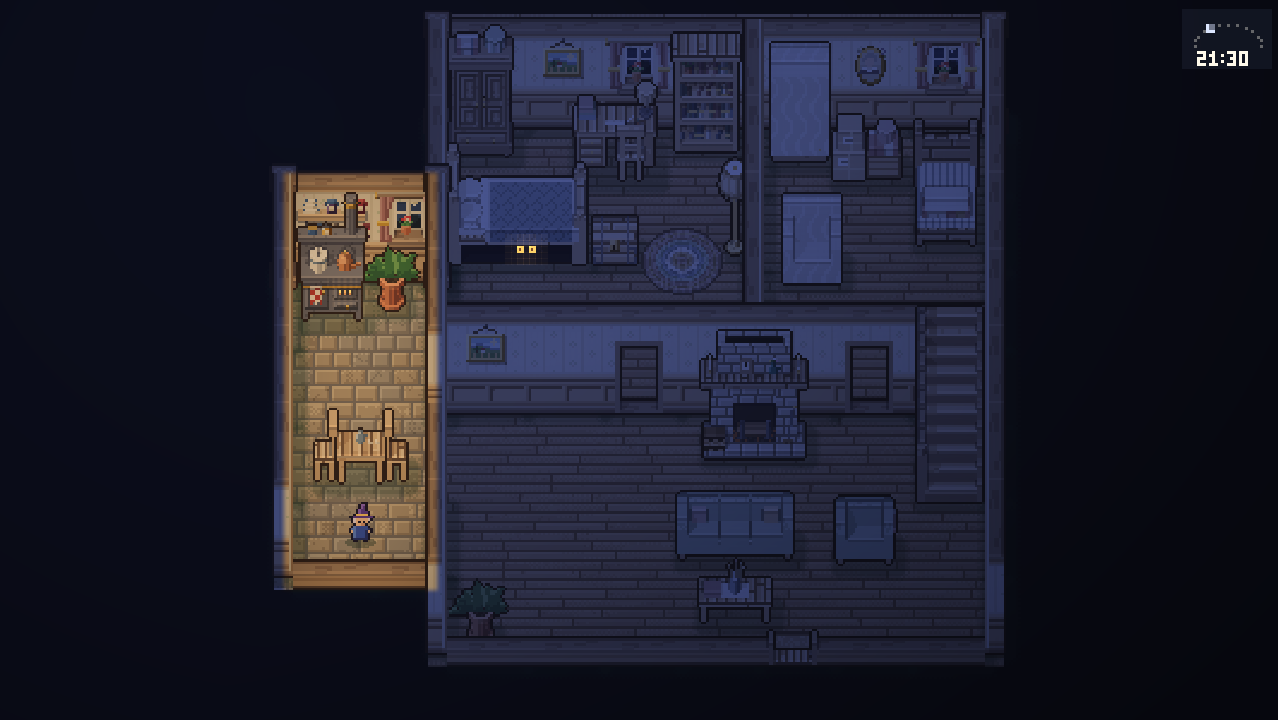
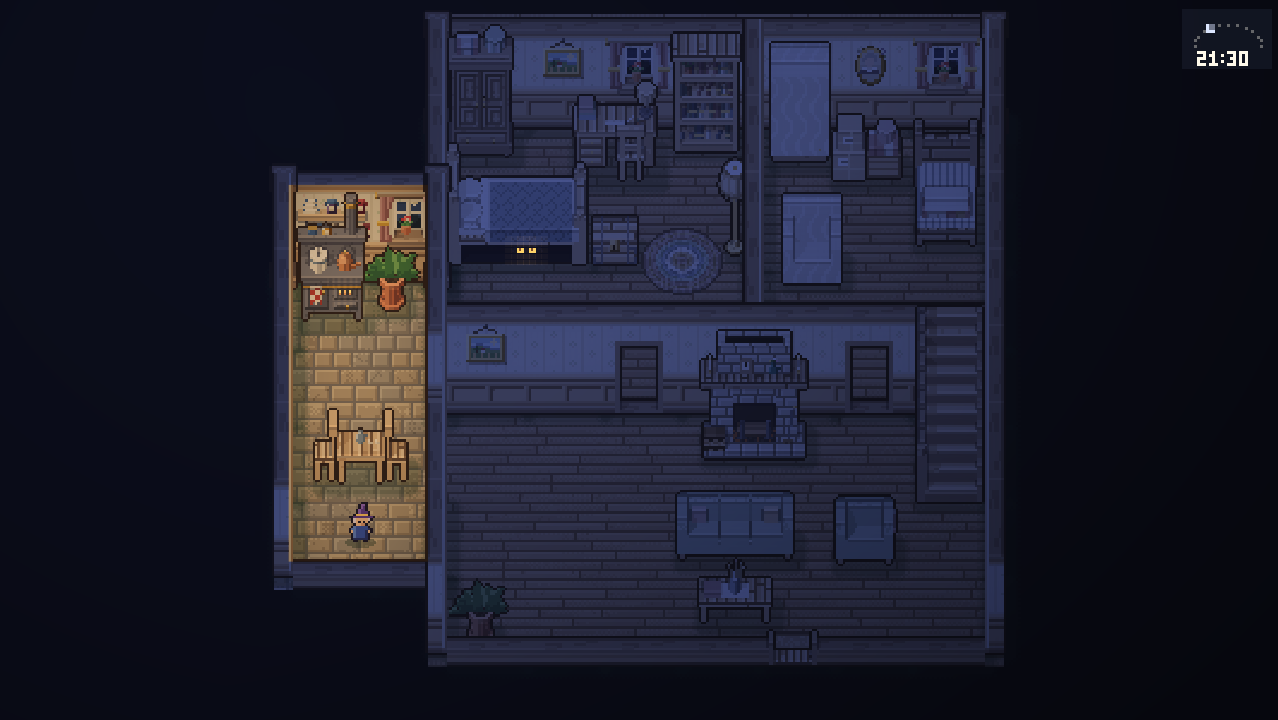
Line the room lights up with the walls
Each room's light now runs exactly between the inner faces of its walls, from
the foot of its back wall's face to the cut top of the wall in front, so wall
tops stay dark. The rects are handed to the shader just before each frame is
drawn, after the camera has moved, so the light no longer lags while walking;
the edges are crisp.

Claude-Session: https://claude.ai/code/session_01Y3QepJTJgk9rCJ93wTDK78

Changed region(s): [[0.2136, 0.2139, 0.3662, 0.825]]

diff --git a/README.md b/README.md
@@ -195,7 +195,7 @@
 - 厨房（侧屋）：很小，铺石板地，有灶台、墙上的碗碟架和一张两人用的小餐桌，侧墙上有门洞通到客厅。
 - 阁楼 `maps/home_attic.json`（`tools/editor/make_home_attic.gd`）：在主屋的屋顶下，矮墙上是屋顶木板和椽子，中间一根立柱撑着屋顶。老虎窗和外观一样在左边，窗下是主角的读书角（坐垫、毯子、一摞书、夜里亮的玻璃罐灯），四周堆着奶奶的旧箱子、纸箱、木箱和盖布的椅子。
 - 走到楼梯脚下就上到阁楼，走进阁楼的楼梯口就回到客厅（画面淡出再淡入）。地图里的建筑加上 `"to": 地图路径` 和 `"at": [x, y]` 就能这样连到别的地图。
-- 夜里各个房间单独开灯关灯：主角走进哪个房间，哪个房间就亮起暖黄的灯，书桌台灯、落地灯、灶火、阁楼的玻璃罐灯这些灯也跟着亮；别的房间关着灯，暗着，灯也灭了（床下小怪物的眼睛照样在黑暗里发光）。换房间时，新房间的灯渐渐亮起，身后的渐渐暗下去。房间的范围写在地图文件的 `rooms` 里：`area` 是房间里能站的地面，`light` 是灯光照到的画面范围（地板加墙），由 `world/map/room_lights.gd` 和 `grade.gdshader` 处理。
+- 夜里各个房间单独开灯关灯：主角走进哪个房间，哪个房间就亮起暖黄的灯，书桌台灯、落地灯、灶火、阁楼的玻璃罐灯这些灯也跟着亮；别的房间关着灯，暗着，灯也灭了（床下小怪物的眼睛照样在黑暗里发光）。换房间时，新房间的灯渐渐亮起，身后的渐渐暗下去。房间的范围写在地图文件的 `rooms` 里：`area` 是房间里能站的地面，`light` 是灯光照到的画面范围（地板加墙面，左右到两侧墙的内侧，上到后墙墙面的底，下到前面那道墙的墙头，墙头本身不亮），由 `world/map/room_lights.gd` 和 `grade.gdshader` 处理。
 - 窗户外面跟着天色变：天黑后玻璃里是夜空、星星、月亮和黑下去的山，天亮再变回白天的景色。
 - 两间卧室的门开在中间那道墙上，前墙只画矮矮一条，免得挡住房间。两间卧室之间的隔墙一直通到中间那道墙的背面（墙头藏在它后面），两个房间完全隔开。画室内时注意：中间这类横墙会挡住它上方大约 45 像素，那一条只留作走路的地板，不要放家具。
 

diff --git a/CHANGELOG.md b/CHANGELOG.md
@@ -2,6 +2,12 @@
 
 按时间倒序记录每次更新。版本号用 `0.主版本.小版本`：画面方向或架构发生变化时加主版本号，同一方向上的调整加小版本号。括号里是对应的提交。
 
+## v0.19.1 · 房间灯光对齐墙壁（2026-10-14）
+
+- **灯光范围**：每个房间亮灯的范围改成刚好到墙的内侧，墙头保持暗色，不再有半截墙被照亮或漏光到墙外。
+- **走动时不再错位**：灯光位置改在每一帧画面绘制前计算，镜头跟着主角移动时，灯光始终贴着房间，不再慢一拍。
+- **灯光边缘**：从柔和过渡改成和像素对齐的清晰边缘。
+
 ## v0.19.0 · 夜里的窗外和各房间开关灯（2026-10-14）
 
 - **窗外的夜色**：天黑后，窗户里的白天景色渐渐换成夜空、星星、月亮和暗下去的山，天亮再换回来。屋里的窗户和阁楼老虎窗都是这样。
